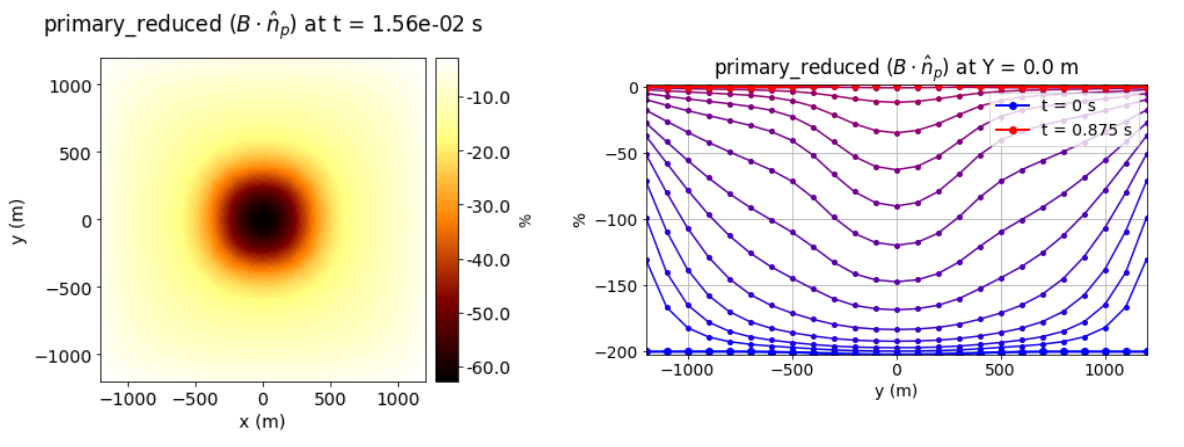
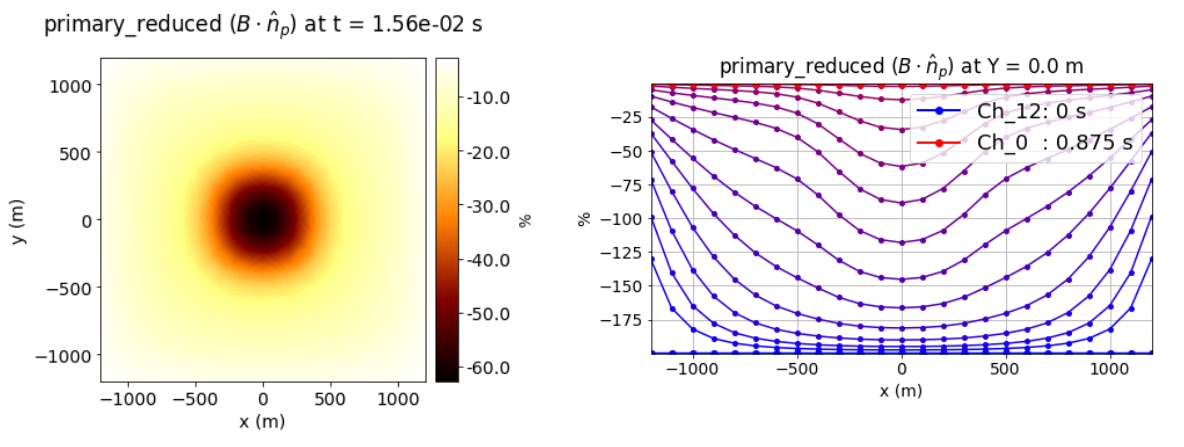
update theory secton

Changed region(s): [[0.4688, 0.1163, 1.0, 0.9016]]

diff --git a/content/comprehensive_workflow/utem/1_basic_anomalies.rst b/content/comprehensive_workflow/utem/1_basic_anomalies.rst
@@ -1,10 +1,10 @@
 .. _comprehensive_workflow_utem_1:
 
 
-Understanding UTEM Anomalies
-============================
+Understanding Surface UTEM Anomalies
+====================================
 
-In order to properly interpret UTEM data, it is import to first understand what fields are measured, how the data are plotted and the anomalies for basic structures. Here, we investigate the UTEM anomaly produced by a compact conductor. The knowledge gained here can be used to determine the coordinate system and sign convention for field collected data, and the operations required to transform the raw data into UBC GIF convention.
+In order to properly interpret surface UTEM data, it is import to first understand what fields are measured, how the data are plotted and the anomalies for basic structures. Here, we investigate the UTEM anomaly produced by a compact conductor. The knowledge gained here can be used to determine the coordinate system and sign convention for field collected data, and the operations required to transform the raw data into UBC GIF convention.
 
 Introduction to UTEM
 --------------------
@@ -21,7 +21,7 @@ For UTEM survey, a large inductive loop source is placed on the Earth's surface.
     Survey geometry for target near center of the loop (left) and near edge of the loop (right).
 
 
-During field data collection, the UTEM system measures directional components of dB/dt for a highly regulated triangular waveform; see below. **However,** this is equivalent to measuring the directional components of B(t) for a corresponding step-like waveform. The principal idea of the UTEM system is to collect dB/dt data for the triangular waveform, then transform the raw data so it represents B-field data for the step waveform. The resulting data is effectively the "step response of the Earth". This is explained in the following subsection.
+During field data collection, standard UTEM systems measure directional components of dB/dt for a highly regulated triangular waveform; see below. **However,** this is equivalent to measuring the directional components of B(t) for a corresponding step-like waveform. The principal idea of the UTEM system is to collect dB/dt data for the triangular waveform, then transform the raw data so it represents B-field data for the step waveform. The resulting data is effectively the "step response of the Earth". This is explained in the following subsection.
 
 
 .. figure:: images/waveform.png
@@ -29,6 +29,9 @@ During field data collection, the UTEM system measures directional components of
     :width: 700
 
     True transmitter waveform and time channels where dB/dt is measured in the field (left). Step waveform and times at which we convert to B-field data (right).
+
+
+.. note:: There are modern UTEM systems capable of directly measuring directional components of B(t) for square waveforms.
 
 
 Defining UTEM Data
@@ -65,7 +68,7 @@ The above expression shows that raw dB/dt data collected during the survey (norm
 Time Channels
 ^^^^^^^^^^^^^
 
-For UTEM systems, the time channels at which the fields are measured depend on the period of the waveform; generally 0.1 s to several seconds. Unlike most TEM systems, the time channels are organized from latest to earliest. Where *T* denotes the period of the waveform, the time channels for UTEM systems are described below:
+For UTEM systems, the time channels at which the fields are measured depend on the period of the waveform; generally 0.1 s to several seconds. Unlike most TEM systems, **the time channels are organized from latest to earliest**. Where *T* denotes the period of the waveform, the time channels for UTEM systems are described below:
 
 - **Ch_0:** The latest time channel. Data at this time channel is supposed to represent the steady-state B-field expected at a sufficient time after the step-on excitation. Ideally this would be measured at time *T/2* , but in practice it is measured slightly earlier.
 |
@@ -83,6 +86,7 @@ For UTEM systems, the time channels at which the fields are measured depend on t
     :align: right
     :width: 250
 
+|
 
 .. _comprehensive_workflow_utem_1_plotting:
 
@@ -98,7 +102,10 @@ Unlike most TEM systems, UTEM instruments measure data during the on-time. The m
     :align: center
     :width: 700
 
-    B-field projected along the direction of the primary field at 1.56e-2 s (left). Same data at each time channel along an Easting transect at y = 0 m (right).
+    B-field projected along the direction of the primary field at 1.56e-2 s (left). Profile data at each time channel (Ch_12 to Ch_0) along an Easting transect at y = 0 m (right).
+
+.. important:: The UTEM profile data at each time channel is plotted using a different color from blue (Ch_12: t = 0 s) to red (Ch_0: t = 0.875 s); see above.
+
 
 
 Normalized by Primary Field
@@ -119,7 +126,7 @@ Therefore we are effectively representing the data as a percentage of the primar
     :align: center
     :width: 700
 
-    Normalized by primary field data for the B-field projected along the direction of the primary field at 1.56e-2 s (left). Same data at each time channel along an Easting transect at y = 0 m (right).
+    Normalized by primary field data for the B-field projected along the direction of the primary field at 1.56e-2 s (left). Profile data at each time channel (Ch_12 to Ch_0) along an Easting transect at y = 0 m (right).
 
 
 Primary Field Reduced Data
@@ -138,7 +145,7 @@ Where :math:`\mathbf{b}_\sqcap(t_i)` represents the total field value at time ch
     :align: center
     :width: 700
 
-    Primary reduced data for the B-field projected along the direction of the primary field at 1.56e-2 s (left). Same data at each time channel along an Easting transect at y = 0 m (right).
+    Primary reduced data for the B-field projected along the direction of the primary field at 1.56e-2 s (left). Profile data (Ch_12 to Ch_0) at each time channel along an Easting transect at y = 0 m (right).
 
 
 
@@ -158,56 +165,104 @@ The channel reduced representation of the data is given by:
     :align: center
     :width: 700
 
-    Channel reduced data for the B-field projected along the direction of the primary field at 1.56e-2 s (left). Same data at each time channel along an Easting transect at y = 0 m (right).
+    Channel reduced data for the B-field projected along the direction of the primary field at 1.56e-2 s (left). Profile data at each time channel (Ch_12 to Ch_0) along an Easting transect at y = 0 m (right).
 
 
 The first two plotting approaches depended on having a high level of confidence that primary field computations are possible and sufficiently accurate. Channel reduced data offers a solution when this is not the case. However, the assumptions we made when defining channel reduced data are not correct in the presence of highly magnetized bodies.
 
+|
 
-Anomaly over a Conductive Block (Primary Normalized)
-----------------------------------------------------
 
-Here, we discuss the characteristics of the UTEM data for a conductive block located near the center of a large square loop. Fields are measured several meters above the surface of the Earth. Data maps for the x, y and z components of the B-field normalized by the absolute value of the primary field are plotted below.
 
-.. figure:: images/primary_normalized.gif
+Surface UTEM Anomalies
+----------------------
+
+We have chosen to explain the physics in accordance with the B-field resulting from step-excitation (as opposed to the dB/dt representation). **We have also chosen to describe anomalies in terms of primary normalized data and NOT primary reduced**. For primary reduced data, simply subtract a constant of 100\% from any of the data plots.
+
+Anomaly for a Moderately Conductive Block (Primary Normalized)
+^^^^^^^^^^^^^^^^^^^^^^^^^^^^^^^^^^^^^^^^^^^^^^^^^^^^^^^^^^^^^^
+
+.. figure:: images/primary_normalized_low.PNG
+    :align: right
+    :width: 350
+
+Here, we discuss the characteristics of the UTEM data for a moderately conductive block located near the center of a large square loop. In this case, **we assume the period of the waveform is long enough for the secondary fields to decay completely before t = 0 s**. Fields are measured several meters above the surface of the Earth. Data maps for the x, y and z components of the B-field normalized by the absolute value of the primary field are plotted below.
+
+.. figure:: images/primary_normalized_low.gif
     :align: center
     :width: 700
 
 
 **At t = 0:**
 
-- We are effectively seeing the steady-state B-field right before the step-on; i.e. for a current of -1 A.
-- The data map for the field projected along the direction of the primary field should be -100\% everywhere since :math:`\mathbf{b}_\sqcap (0)=-\mathbf{b_p}`. 
+- We are effectively seeing the steady-state B-field right before the step-on; i.e. the Biot-Savart field for a current of -1 A.
+- The data map for the normalized field projected along the direction of the primary field is -100\% everywhere since :math:`\mathbf{b}_\sqcap (0)=-\mathbf{b_p}`. 
 
 **At early times:**
 
 - At t = 0 s, the primary field changes from :math:`-\mathbf{b_p}` to :math:`\mathbf{b_p}`. This produces a change in magnetic flux density equal to :math:`2\mathbf{b_p}`!!!
-- Thus at sufficiently early times, currents induced in the ground produce secondary fields that are both stronger than and oppose the primary field. At these times, normalized data show negative percentage values.
+- Thus at sufficiently early times, currents induced in the ground produce secondary B-fields that are both 1) stronger than and 2) oppose the primary field.
 - In the GIF provided, we can actually see the signature of the induced currents as they diffuse away from the transmitter loop over time; especially in the x and y components.
-- The strength of the secondary fields relative to the primary field is weakest near the transmitter wire, so positive values are expected at earlier time channels.
 
 **At mid-times:**
 
 - "Mid-time" refers to time channels where currents induced in the host rock have decayed sufficiently but currents induced in conductive targets have not.
 - Over these times, we try to identify conductive structures.
-- These time channels provide the best data for inversion, as they are most sensitive to the target.
+- These time channels are suitable for inversion, as they are most sensitive to the target.
 
 **At late-times:**
 
 - During the "late-times", we expect the measured fields to asymptote towards the steady-state B-field long after the step-on; i.e. we expect :math:`\mathbf{b}_\sqcap (t) \rightarrow \mathbf{b_p}`.
-- This occurs at earlier times if the Earth is more resistive and at latter time if the Earth is more conductive; a fact that helps determine the appropriate period for your current waveform.
-- The data map for the field projected along the direction of the primary field should approach 100\% everywhere since after sufficient time :math:`\mathbf{b}_\sqcap (t) \approx \mathbf{b_p}`.
-
+- This occurs at earlier times if the Earth is more resistive and at latter times if the Earth is more conductive; a fact that helps determine the appropriate period for your current waveform.
+- The primary normalized data projected along the direction of the primary field should approach 100\% everywhere since after sufficient time :math:`\mathbf{b}_\sqcap (t) \approx \mathbf{b_p}`.
 
 .. important::
     - In the case of **primary reduced data**, the removal of the free-space primary field effectively shifts the data maps so that they asymptote to 0\%. So long as *Ch_0* is approximately measuring a steady-state field, this is also true for **channel reduced data**.  
 
 
 
-Anomaly over a Conductive and Susceptible Block (Primary Normalized)
---------------------------------------------------------------------
+Anomaly for a Highly Conductive Block (Primary Normalized)
+^^^^^^^^^^^^^^^^^^^^^^^^^^^^^^^^^^^^^^^^^^^^^^^^^^^^^^^^^^
 
-Here, we discuss the characteristics of the UTEM data for a conductive and magnetically susceptible block located near the center of a large square loop. Fields are measured several meters above the surface of the Earth. Data maps for the x, y and z components of the B-field normalized by the absolute value of the primary field are plotted below.
+.. figure:: images/primary_normalized_high.PNG
+    :align: right
+    :width: 350
+
+Here, we discuss the characteristics of the UTEM data for a highly conductive block located near the center of a large square loop. In this case, **the waveform period is not long enough for the induced currents to decay fully over the course of each half-duty cycle**. Fields are measured several meters above the surface of the Earth. Data maps for the x, y and z components of the B-field normalized by the absolute value of the primary field are plotted below.
+
+.. figure:: images/primary_normalized_high.gif
+    :align: center
+    :width: 700
+
+
+**At t = 0:**
+
+- Since the induced currents have not fully decayed over the course of the previous half duty cycle (-T/2 to 0), secondary fields are present at t = 0 s.
+- The remnants of the signal produced at t < 0 s reduces the amplitude primary normalized data.
+- This effect can be small (several percent) or very large (as seen above). The more conductive the target, the larger the effect and the more challenging it is to model accurately.
+
+**At early times:**
+
+- Depending on how conductive the target is (or how short the waveform period is), it may take a number time channels for this signature to dissappear. 
+
+**At mid-times:**
+
+- Unlike in the previous example, it may be more challenging to identify conductive targets at these times.
+
+**At late-times:**
+
+- At late times, the signal produced by the target has not decayed but is easily distinguishable.
+- As t approaches T/2, the primary normalized data plots look like the ones at t = 0 s (except multplied by -1); i.e. we see the signal asymptote.
+
+
+Anomaly for a Conductive and Susceptible Block (Primary Normalized)
+^^^^^^^^^^^^^^^^^^^^^^^^^^^^^^^^^^^^^^^^^^^^^^^^^^^^^^^^^^^^^^^^^^^
+
+.. figure:: images/primary_normalized_susceptible.PNG
+    :align: right
+    :width: 350
+
+Here, we discuss the characteristics of the UTEM data for a moderately conductive and magnetically susceptible block located near the center of a large square loop. Fields are measured several meters above the surface of the Earth. Data maps for the x, y and z components of the B-field normalized by the absolute value of the primary field are plotted below.
 
 
 .. figure:: images/primary_normalized_susceptible.gif
@@ -219,20 +274,16 @@ Here, we discuss the characteristics of the UTEM data for a conductive and magne
 
 - We are effectively seeing the steady-state B-field right before the step-on; i.e. for a current of -1 A.
 - In this case, the data map for the total field projected along the direction of the primary field has anomalous values below -100\% . These anomalous values are produced by the magnetostatic response of the block.
+- This effect is generally negligible (less than 1\%), but can be significant (as seen above) for susceptibilities larger than 0.1 SI.
 
-**At early times:**
+**At early and mid-times:**
 
-- At sufficiently early times, currents induced in the ground produce secondary fields that much stronger than the magnetic response. These times are dominated by EM induction.
-- It is not possible to ascertain whether the block is susceptible over these time channels.
-
-**At mid-times:**
-
-- "Mid-time" refers to time channels where currents induced in the host rock have decayed sufficiently but currents induced in conductive targets have not.
-- Over these times, we try to identify conductive structures.
-- These time channels provide the best data for inversion, as they are most sensitive to the target.
+- For most rocks, the impact of the magnetic properties on the inductive response is negligible. But for highly susceptible targets (as seen above), the effect is significant.
+- In practice, it is better to identify susceptible structures from late time data as opposed to early time data.
+- Once again, mid-times can be used to identify conductive targets.
 
 **At late-times:**
 
-- During the "late-times", the fields asymptote towards the steady-state total-field for a transmitter current of 1 A.
+- During the "late-times", the fields asymptote towards the steady-state total-field for a transmitter current of 1 A; which includes a magnetostatic response.
 - It is over these time channels we generally examine the data maps to determine if there are susceptible structures.
-- In this case, the data map for the field projected along the direction of the primary field has values larger than 100\% at locations near susceptible bodies.
+- In this case, the data map for the field projected along the direction of the primary field has values larger than 100\% at locations near the susceptible target.

diff --git a/content/comprehensive_workflow/utem/index.rst b/content/comprehensive_workflow/utem/index.rst
@@ -1,15 +1,15 @@
 .. _comprehensive_workflow_utem_index:
 
 
-Comprehensive Workflows: UTEM
-=============================
+Comprehensive Workflows: Surface UTEM
+=====================================
 
 **Author: Devin C. Cowan**
 
 **Published: March, 2020**
 
 
-Here, we present a general workflow for loading, interpreting and inverting "University of Toronto ElecroMagnetometer" (UTEM) data. We begin with UTEM data in AMIRA TEM files. Our goal is to invert the data to recover a 3D conductivity model. You may work with the tutorial dataset provided or your own data:
+Here, we present a general workflow for loading, interpreting and inverting surface "University of Toronto ElecroMagnetometer" (UTEM) data. We begin with UTEM data in AMIRA TEM files. Our goal is to invert the data to recover a 3D conductivity model. You may work with the tutorial dataset provided or your own data:
 
 ..     - `Download the tutorial data <https://github.com/ubcgif/GIFtoolsCookbook/raw/master/assets/comprehensive_tutorial_ztem.zip>`_
 

diff --git a/content/comprehensive_workflow/index.rst b/content/comprehensive_workflow/index.rst
@@ -25,7 +25,7 @@ This section of the GIFtools cookbook is meant to provide practical tutorials fo
     DCIP: From UBC-GIF/XYZ to DC and IP inversion <dcip/index>
     MT: From EDI data to inversion <mt/index>
     ZTEM: From XYZ data to inversion <ztem/index>
-    UTEM: From AMIRA TEM data file to inversion <utem/index>
+    Surface UTEM: From AMIRA TEM data file to inversion <utem/index>
 
 
 
